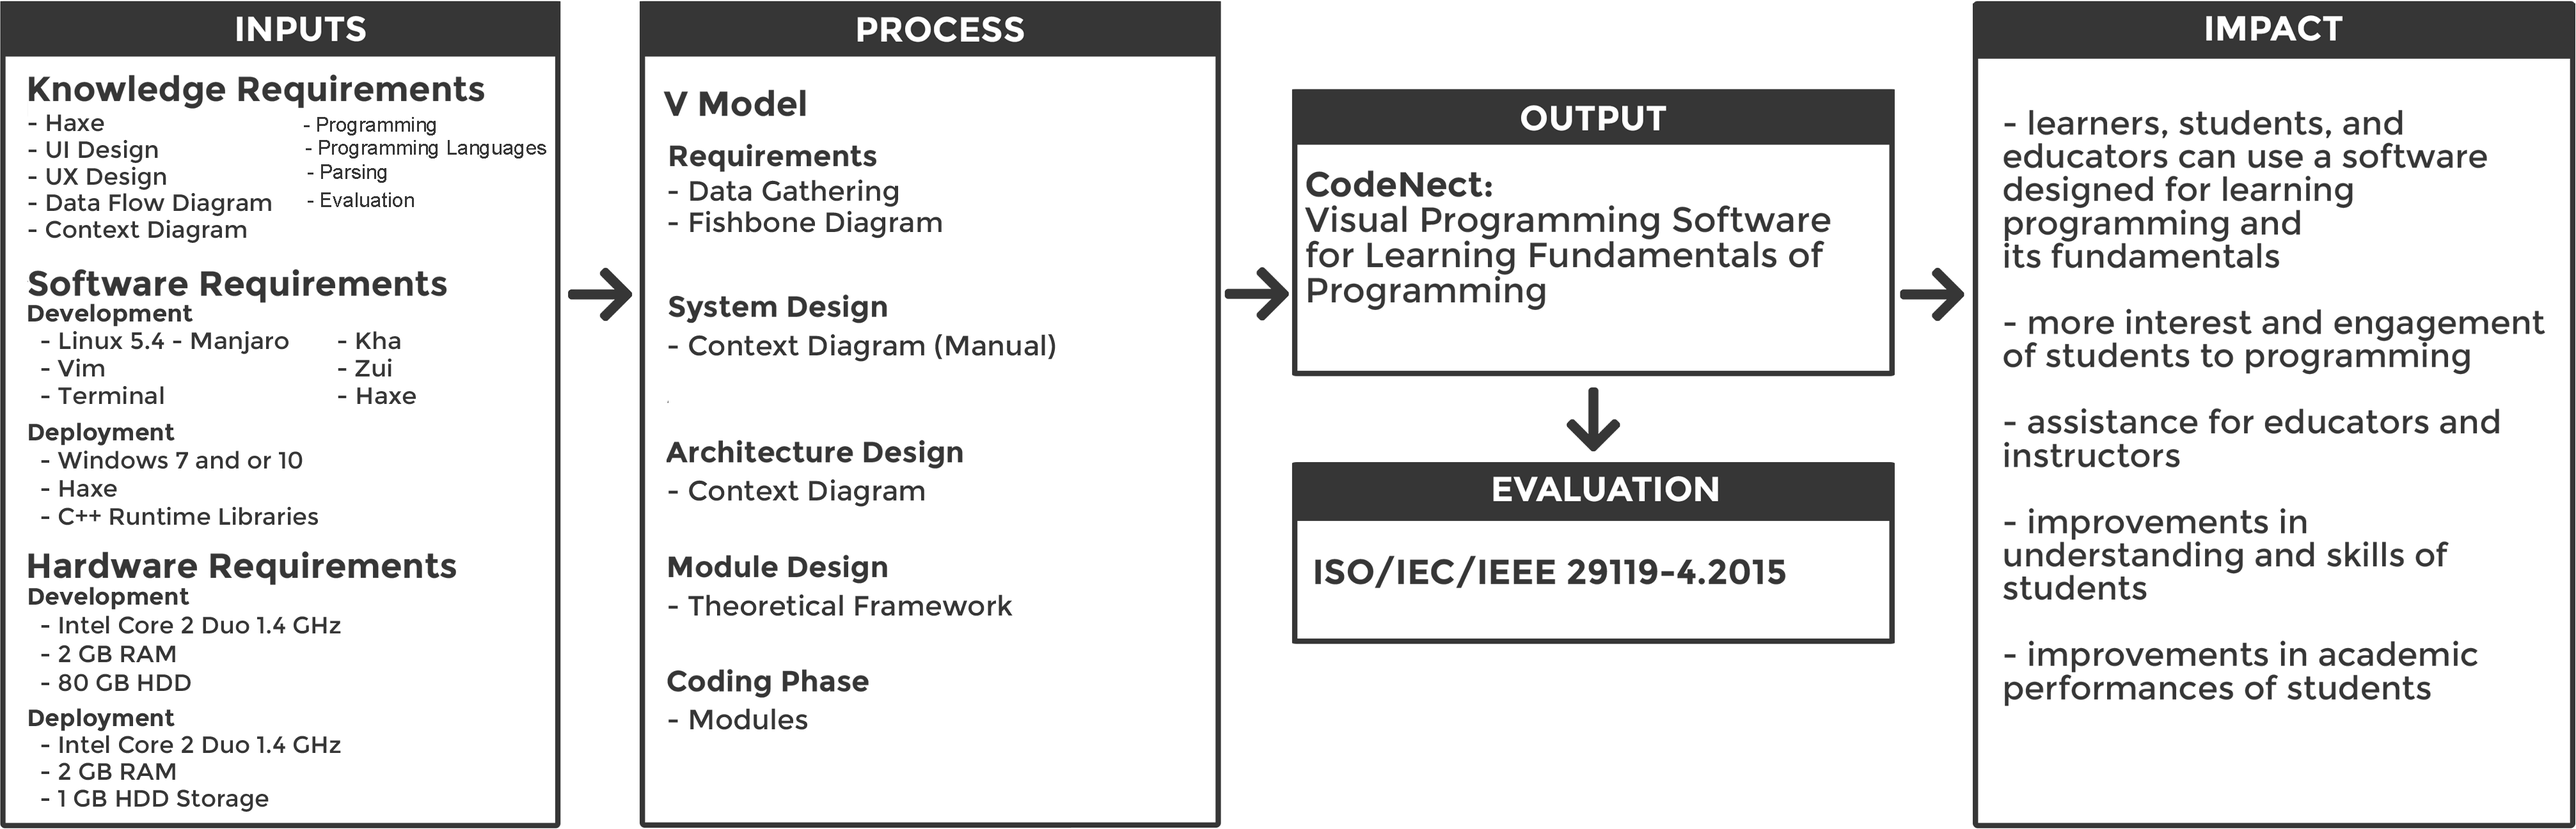
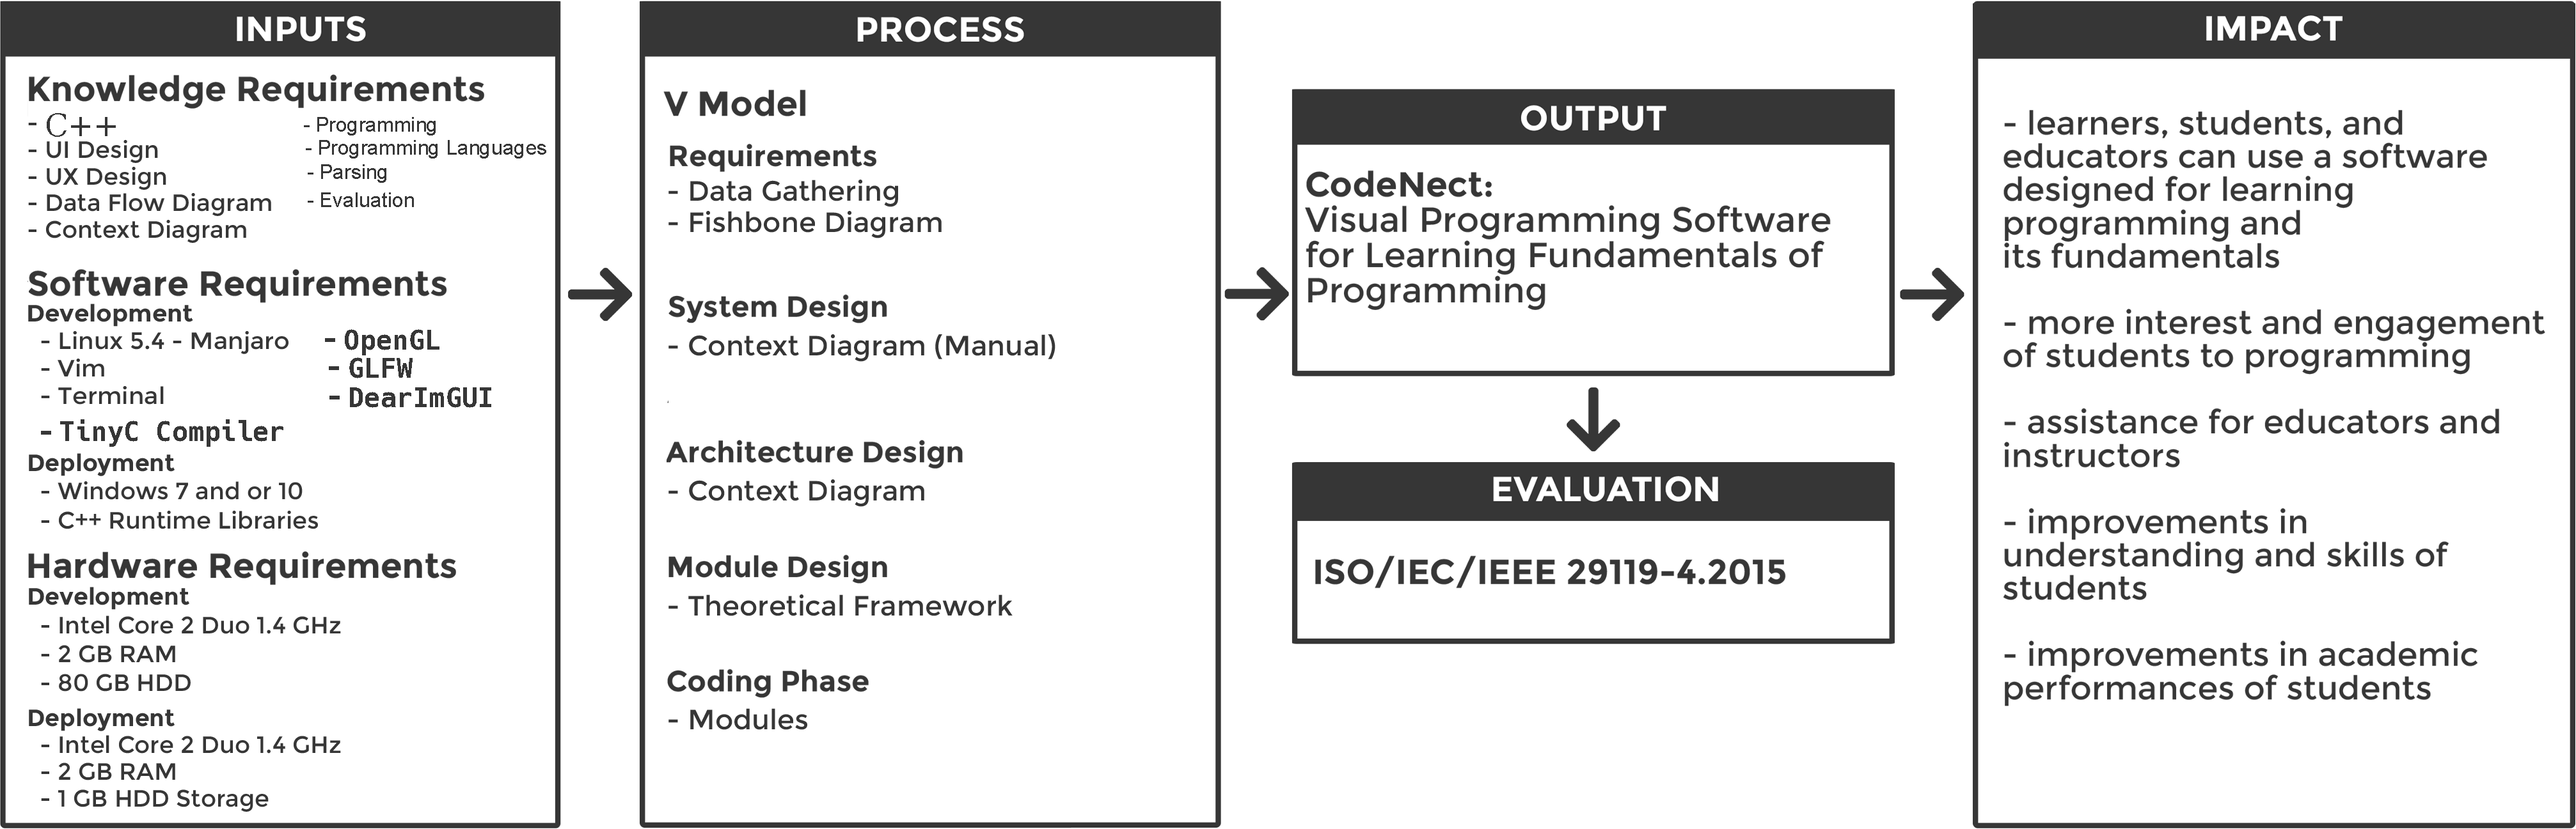
Removed Kha and ZUI

Changed region(s): [[0.0, 0.4934, 0.1242, 0.6476], [0.1242, 0.4009, 0.1862, 0.4934], [0.0, 0.1234, 0.031, 0.1542]]

diff --git a/tex/sections/chapter3/methods.tex b/tex/sections/chapter3/methods.tex
@@ -65,13 +65,14 @@ without dependency in other module
 \justifying
 \parx
 The researchers will start to program each module in the C++ programming
-language using Vim as the primary text editor. Compiling and running the software
-will be done by running a command in the terminal. The rendering backend will be
-the Kha and zui framework. Each functionality of each module will be tested
-using unit tests by running the test every functionality that will be implemented.
-After each module passes the associated test, all will be coupled and
-integrated to a single system. The end product of this phase is the CodeNext:
-Visual Programming Software for Learning Fundamentals of Programming.
+language using Vim as the primary text editor. Compiling and running the
+software will be done by running a command in the terminal. The rendering
+backend will be OpenGL and the GLFW for the windowing and input framework. Each
+functionality of each module will be tested using unit tests by running the
+test every functionality that will be implemented.  After each module passes
+the associated test, all will be coupled and integrated to a single system. The
+end product of this phase is the CodeNext: Visual Programming Software for
+Learning Fundamentals of Programming.
 
 \flushleft
 \textbf{Testing.}

diff --git a/tex/sections/chapter3/materials.tex b/tex/sections/chapter3/materials.tex
@@ -10,8 +10,9 @@ Fundamentals of Programming, the researchers use the following specifications:
 For the software requirements, the following materials are used in the
 development of the software: Linux 5.4 Kernel with Manjaro distrubution as
 Operating System, Terminal for running commands, Vim for text and code editor,
-Kha for the graphical, media, and control framework, zui for the base
-user-interface, and C++ as programming language. The following are used for the
+OpenGL for rendering, GLFW for windowing and input, DearImGUI for immediate
+mode graphical user interface (GUI), TinyC Compiler for running transpiled code
+at runtime, and C++ as programming language. The following are used for the
 deployment of the software: Microsoft Windows 7 and above, C++ Runtime
 libraries, and the C++ programming language.
 

diff --git a/tex/sections/chapter1/conceptual_framework.tex b/tex/sections/chapter1/conceptual_framework.tex
@@ -17,7 +17,8 @@ Knowledge requirements include programming, programming languages, parsing,
 evaluation, C++ programming language, user-interface design, user-experience
 design, data flow diagram, and context diagram.  Software requirement include
 Linux 5.4 - Manjaro as operating system and distribution, Vim as text and code
-editor, terminal, Kha and zui library for graphics, and the C++ programming
+editor, terminal, OpenGL and GLFW library for graphics and inputs, TinyC
+Compiler for running the transpiled code at runtime, and the C++ programming
 language for development. Microsoft Windows 7 and above, C++ Runtime libraries,
 and the C++ programming language for deployment.  Hardware requirement are
 machine with at at least Intel Core 2 Duo at 1.4 GHz, 2 GB of RAM, and 80 GB

diff --git a/tex/sections/chapter1/scope_and_limitations.tex b/tex/sections/chapter1/scope_and_limitations.tex
@@ -8,8 +8,8 @@ simple and basic functionalities over numerous features for the purpose of
 learning and education.
 
 The software is to be developed in Linux operating system using the C++ programming
-language, Vim as code editor, terminal for building, Kha and the zui framework for
-rendering.
+language, Vim as code editor, terminal for building, OpenGL and GLFW framework for
+rendering and input.
 The source is to be released as open-source with appropriate license to improve
 contributions. Since the software is stand-alone desktop program, there will be no
 account management. The software is only accessible by a single user such as the
